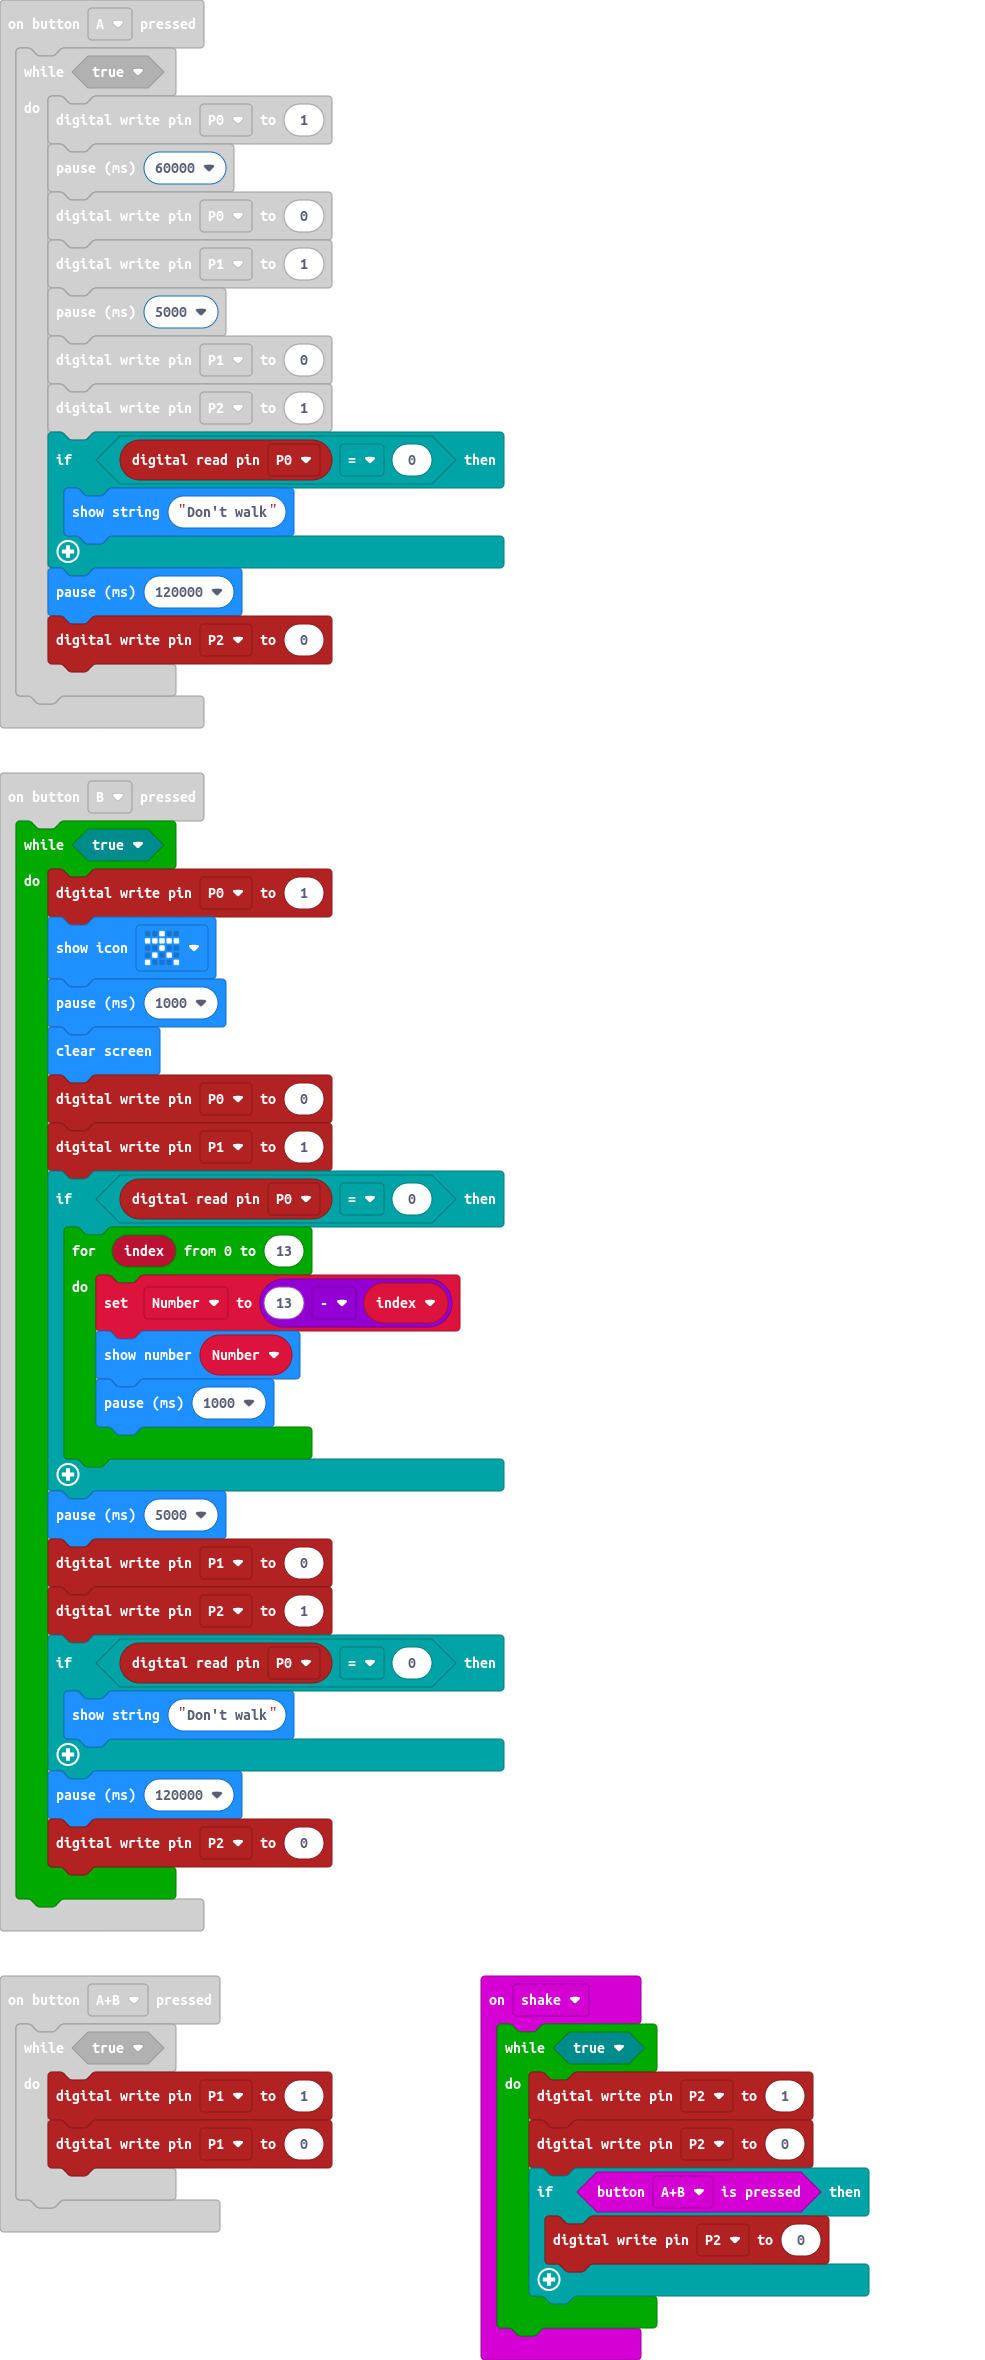
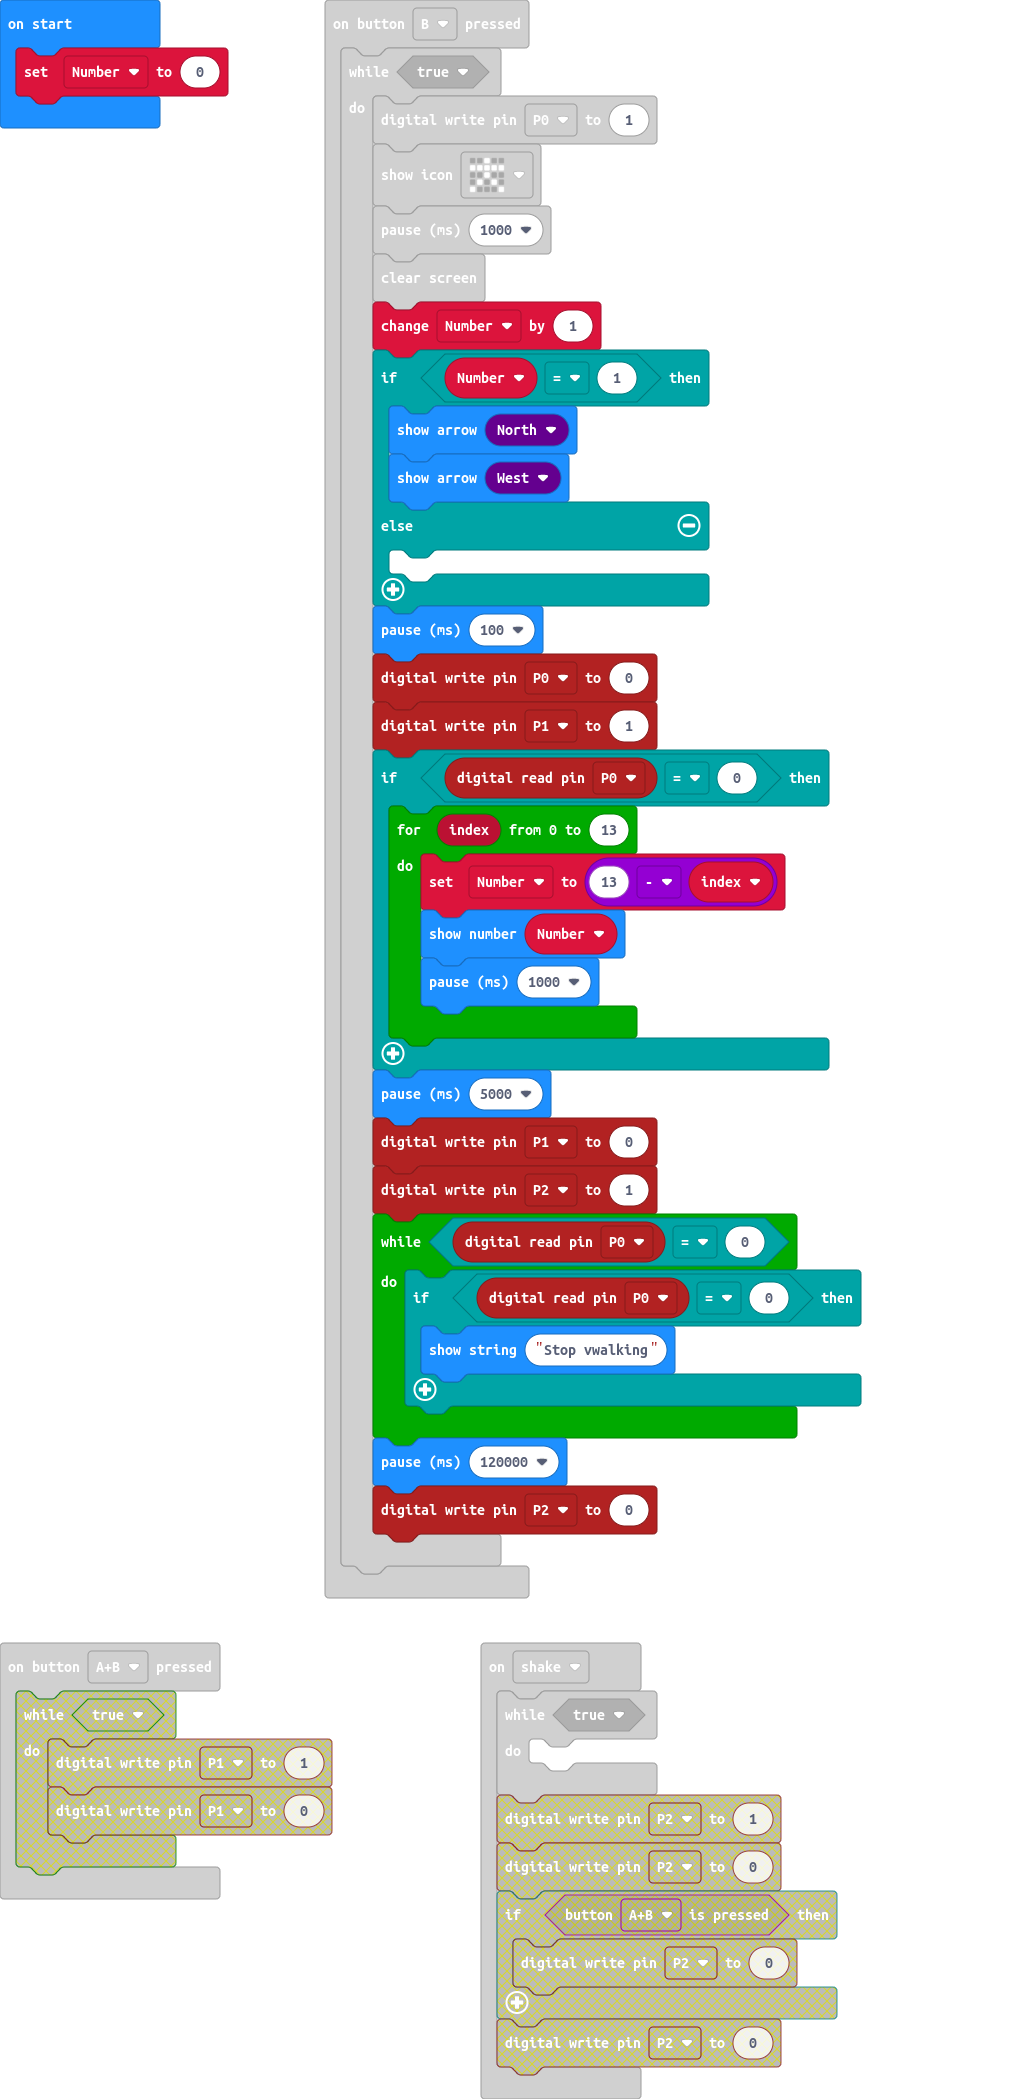
Update main.blocks, main.ts

diff --git a/main.ts b/main.ts
@@ -1,4 +1,3 @@
-let Number2 = 0
 input.onButtonPressed(Button.A, function () {
     while (true) {
         pins.digitalWritePin(DigitalPin.P0, 1)
@@ -16,10 +15,7 @@ input.onButtonPressed(Button.A, function () {
     }
 })
 input.onButtonPressed(Button.AB, function () {
-    while (true) {
-        pins.digitalWritePin(DigitalPin.P1, 1)
-        pins.digitalWritePin(DigitalPin.P1, 0)
-    }
+	
 })
 input.onButtonPressed(Button.B, function () {
     while (true) {
@@ -27,6 +23,14 @@ input.onButtonPressed(Button.B, function () {
         basic.showIcon(IconNames.StickFigure)
         basic.pause(1000)
         basic.clearScreen()
+        Number2 += 1
+        if (Number2 == 1) {
+            basic.showArrow(ArrowNames.North)
+            basic.showArrow(ArrowNames.West)
+        } else {
+        	
+        }
+        basic.pause(100)
         pins.digitalWritePin(DigitalPin.P0, 0)
         pins.digitalWritePin(DigitalPin.P1, 1)
         if (pins.digitalReadPin(DigitalPin.P0) == 0) {
@@ -39,8 +43,10 @@ input.onButtonPressed(Button.B, function () {
         basic.pause(5000)
         pins.digitalWritePin(DigitalPin.P1, 0)
         pins.digitalWritePin(DigitalPin.P2, 1)
-        if (pins.digitalReadPin(DigitalPin.P0) == 0) {
-            basic.showString("Don't walk")
+        while (pins.digitalReadPin(DigitalPin.P0) == 0) {
+            if (pins.digitalReadPin(DigitalPin.P0) == 0) {
+                basic.showString("Stop vwalking")
+            }
         }
         basic.pause(120000)
         pins.digitalWritePin(DigitalPin.P2, 0)
@@ -48,10 +54,8 @@ input.onButtonPressed(Button.B, function () {
 })
 input.onGesture(Gesture.Shake, function () {
     while (true) {
-        pins.digitalWritePin(DigitalPin.P2, 1)
-        pins.digitalWritePin(DigitalPin.P2, 0)
-        if (input.buttonIsPressed(Button.AB)) {
-            pins.digitalWritePin(DigitalPin.P2, 0)
-        }
+    	
     }
 })
+let Number2 = 0
+Number2 = 0
